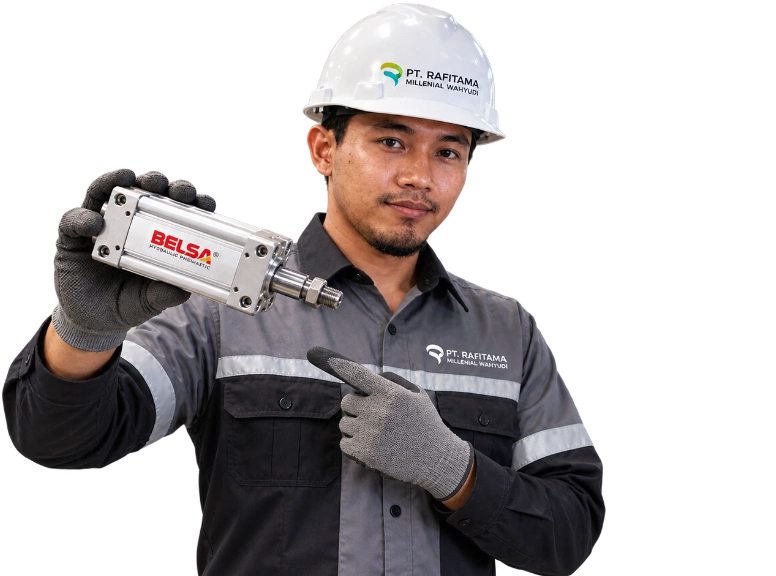
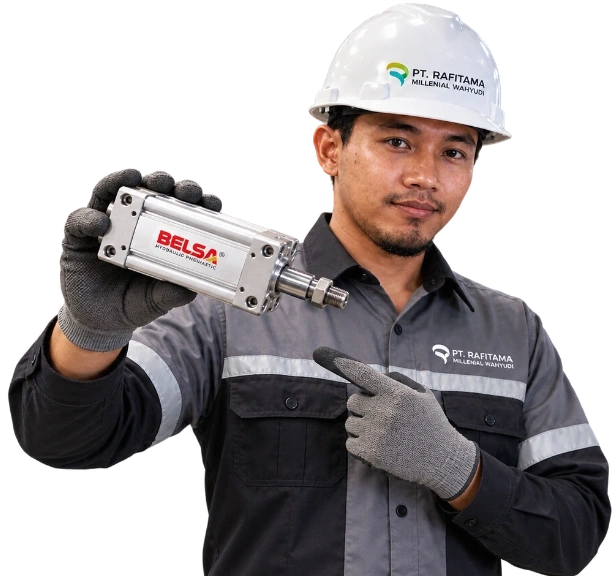
fix(mobile): center technician photo and anchor bottom flush to next section card

diff --git a/src/app/globals.css b/src/app/globals.css
@@ -589,6 +589,11 @@ a {
   align-items: center;
 }
 
+.belsa-about-section {
+  padding-bottom: 0 !important;
+  overflow: hidden;
+}
+
 .belsa-about-grid {
   display: grid;
   grid-template-columns: 1fr 1fr;
@@ -2729,10 +2734,20 @@ a.belsa-card:hover .belsa-brand-icon-box svg {
   .belsa-grid-hero,
   .belsa-grid-2col,
   .belsa-grid-2col-equal,
-  .belsa-banner-grid,
-  .belsa-about-grid {
+  .belsa-banner-grid {
     grid-template-columns: 1fr !important;
     gap: 28px !important;
+  }
+
+  .belsa-about-section {
+    padding-bottom: 0 !important;
+  }
+
+  .belsa-about-grid {
+    grid-template-columns: 1fr !important;
+    gap: 20px !important;
+    padding-bottom: 0 !important;
+    margin-bottom: 0 !important;
   }
 
   .belsa-about-text {
@@ -2741,11 +2756,21 @@ a.belsa-card:hover .belsa-brand-icon-box svg {
   }
 
   .belsa-about-img-wrap {
+    display: flex !important;
     justify-content: center !important;
+    align-items: flex-end !important;
+    line-height: 0 !important;
+    margin-bottom: 0 !important;
+    padding-bottom: 0 !important;
   }
 
   .belsa-about-img-wrap img {
-    max-width: 440px !important;
+    max-width: 390px !important;
+    width: 100% !important;
+    height: auto !important;
+    margin: 0 auto !important;
+    display: block !important;
+    vertical-align: bottom !important;
   }
 
   .belsa-grid-4col,

diff --git a/src/app/page.tsx b/src/app/page.tsx
@@ -56,7 +56,7 @@ export default function HomePage() {
       <MetricsBar />
 
       {/* We Are Belsa Section */}
-      <section className="belsa-section" style={{ paddingBottom: 0, overflow: 'hidden' }}>
+      <section className="belsa-section belsa-about-section" style={{ paddingBottom: 0, overflow: 'hidden' }}>
         <div className="belsa-container belsa-about-grid">
           <div className="belsa-about-text">
             <h2 className="heading-section" style={{ marginBottom: '16px' }}>
